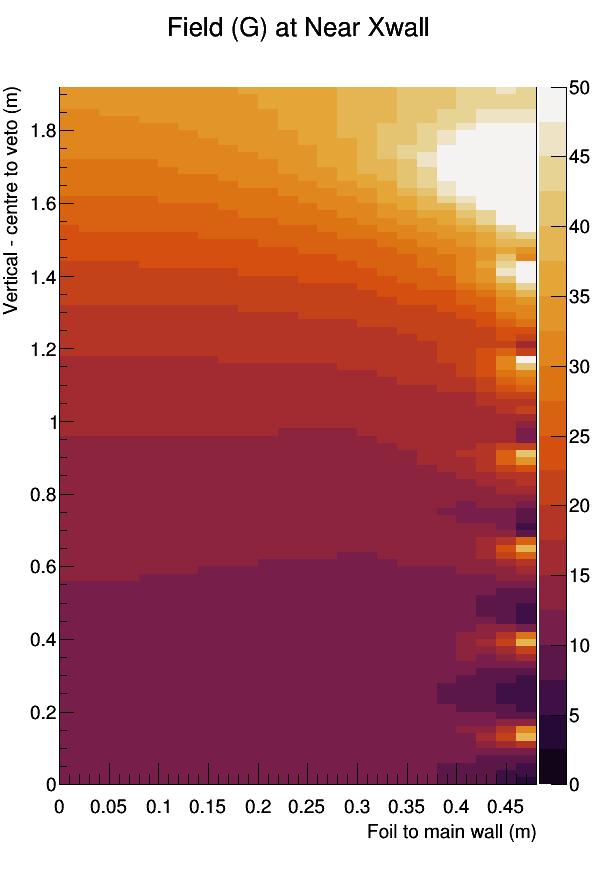
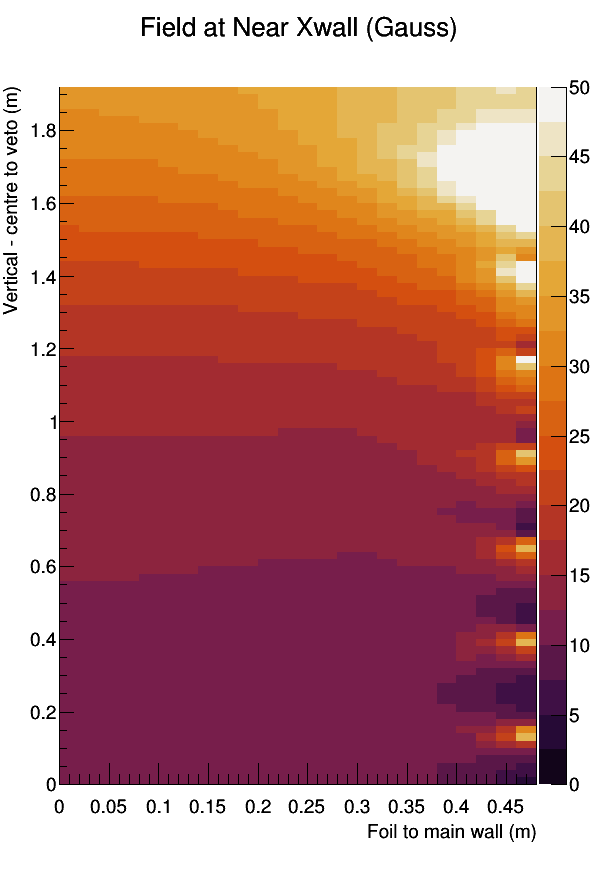
fix titles

Changed region(s): [[0.2416, 0.0, 0.755, 0.0619]]

diff --git a/parseFieldMap.cpp b/parseFieldMap.cpp
@@ -175,12 +175,12 @@ void MakePlotSet(TH3D *totalfield, int ybin, string text)
 //  c->SaveAs((text+"_offset_veto.png").c_str());
   
   y0->SetTitle(("Field at different heights: "+text).c_str());
-  y0->Draw();
-  y50->Draw("SAME");
-  y1->Draw("SAME");
-  y150->Draw("SAME");
-  y18->Draw("SAME");
-  yveto->Draw("SAME");
+  y0->Draw("HIST");
+  y50->Draw("HIST SAME");
+  y1->Draw("HIST SAME");
+  y150->Draw("HIST SAME");
+  y18->Draw("HIST SAME");
+  yveto->Draw("HIST SAME");
   c->SetTitle(("Field at different heights: "+text).c_str());
   
   TLegend *leg=new TLegend(0.7,0.4,0.9,0.7); // Add a legend
@@ -199,7 +199,7 @@ void MakePlotSet(TH3D *totalfield, int ybin, string text)
   TH3D *temp3d = (TH3D*)totalfield->Clone();
   temp3d->GetXaxis()->SetRange(ybin,ybin);
   TH2D *plot2d = (TH2D*)temp3d->Project3D("yz");
-  plot2d->SetTitle(("Field (G) at "+text).c_str());
+  plot2d->SetTitle(("Field at "+text+" (Gauss)").c_str());
   plot2d->Scale(1./1000);
   plot2d->GetZaxis()->SetRangeUser(0,50);
   plot2d->GetXaxis()->SetTitle(ztitle.c_str());
